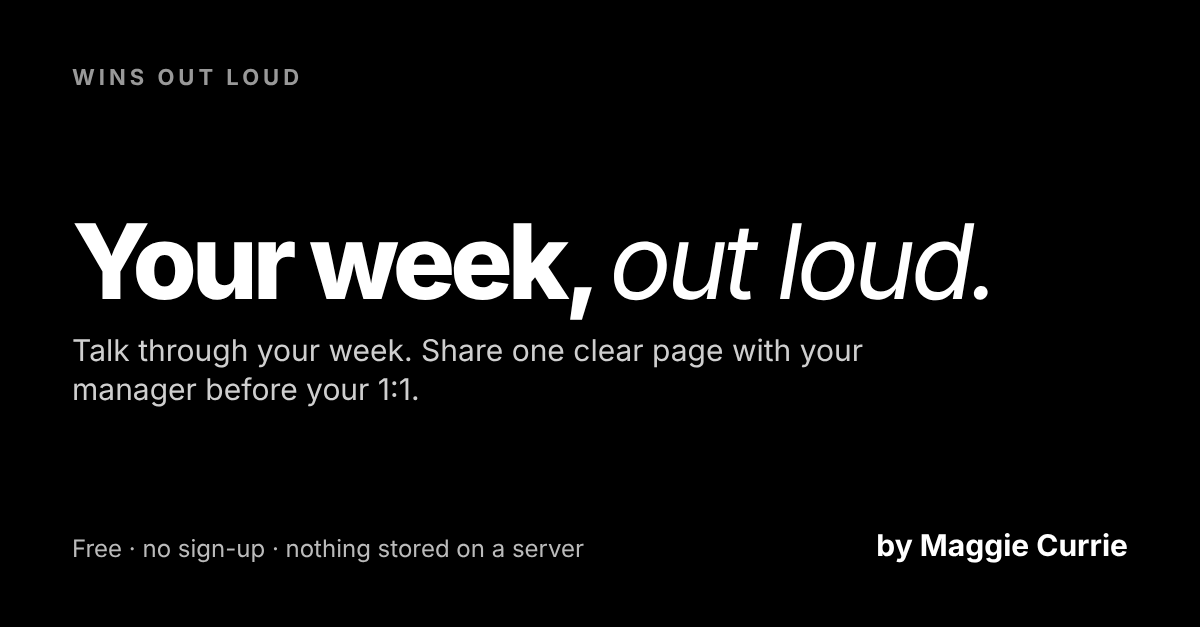
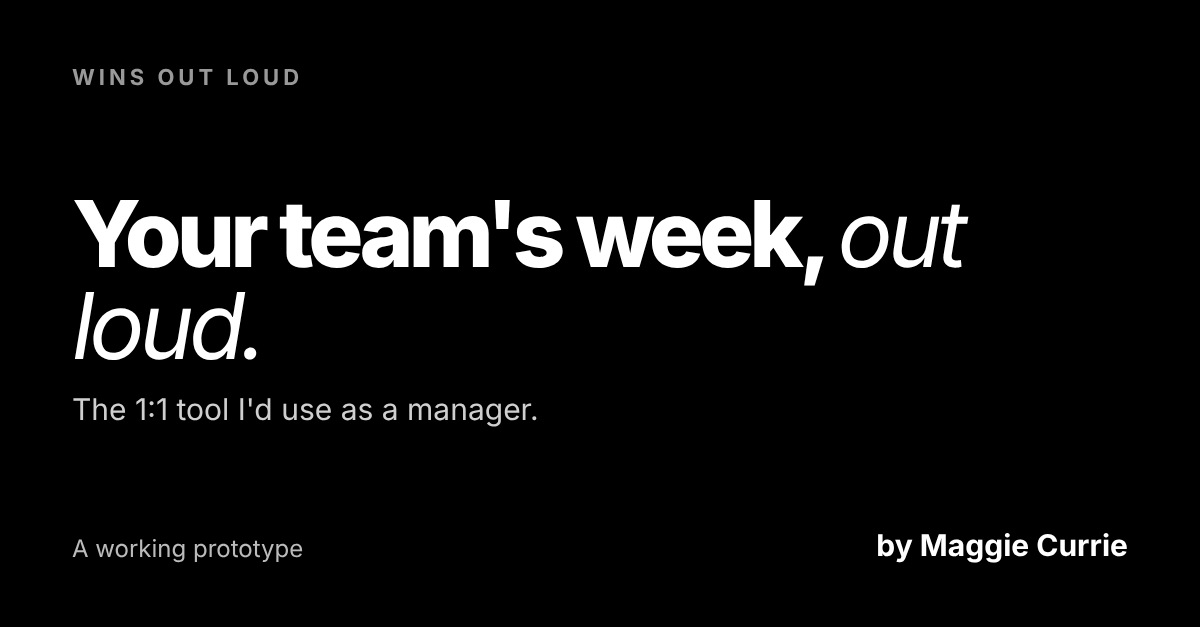
Reposition as the 1:1 tool I'd use as a manager
Rewrites the landing page from a manager's point of view: 'Your team's
week, out loud', fixes framed around better 1:1s, better reviews and a
team that feels seen, manager benefits listed first, and the prototype
introduced as 'try it as your team would, then see your view'. Updates
the link preview image and descriptions to match.

Claude-Session: https://claude.ai/code/session_01ASASKN3PPq9E4hFb3va1Pi

Changed region(s): [[0.0617, 0.303, 0.8325, 0.5758], [0.0617, 0.8485, 0.4933, 0.9091], [0.0617, 0.6061, 0.4625, 0.697]]

diff --git a/index.html b/index.html
@@ -3,10 +3,10 @@
 <head>
 <meta charset="utf-8">
 <meta name="viewport" content="width=device-width, initial-scale=1">
-<title>Wins Out Loud · A weekly hub for you and your manager</title>
-<meta name="description" content="Talk through your week in two minutes. Wins, what's in progress and where you're stuck become one clear page for your weekly 1:1s and quarterly check-ins. A prototype by Maggie Currie, open for anyone to use and adapt.">
+<title>Wins Out Loud · The 1:1 tool I'd use as a manager</title>
+<meta name="description" content="The 1:1 tool I'd use as a manager. Your team talks through their week in two minutes, and you get one clear page of wins, work in progress, and blockers. A prototype by Maggie Currie.">
 <meta property="og:title" content="Wins Out Loud">
-<meta property="og:description" content="Talk through your week in two minutes. Share one clear page with your manager before your 1:1.">
+<meta property="og:description" content="The 1:1 tool I'd use as a manager. Your team talks through their week; you get one clear page of wins, work in progress, and blockers.">
 <meta property="og:type" content="website">
 <meta property="og:url" content="https://maggiecurrie.github.io/wins-out-loud/">
 <meta property="og:image" content="https://maggiecurrie.github.io/wins-out-loud/og-image.png">
@@ -270,23 +270,23 @@
       <a class="brand" href="#top">Wins <em>Out Loud</em></a>
       <nav aria-label="Main">
         <a href="#solved">How it helps</a>
-        <a href="#both-sides">For managers</a>
+        <a href="#both-sides">For your team</a>
         <a href="#try">Use it</a>
       </nav>
     </div>
     <div class="hero-grid">
       <div>
-        <div class="eyebrow">A weekly hub for you and your manager</div>
-        <h1>Your week, <em>out loud.</em></h1>
-        <p class="lead">Before your 1:1, just <strong>talk through your week</strong>. Your wins, what's in progress, and where you're stuck become <strong>one clear page</strong> you and your manager work from together, every week and every quarter.</p>
+        <div class="eyebrow">The 1:1 tool I'd use as a manager</div>
+        <h1>Your team's week, <em>out loud.</em></h1>
+        <p class="lead">Before each 1:1, your people <strong>talk through their week</strong> in two minutes. You get <strong>one clear page</strong>: their wins, what's in progress, and where they're stuck, so you can spend the time coaching, unblocking, and celebrating.</p>
         <div class="btns">
-          <a class="btn solid-light" href="#try">Talk through your week →</a>
+          <a class="btn solid-light" href="#try">See it in action →</a>
           <a class="btn light" href="#solved">See how it helps</a>
         </div>
         <p class="hero-note">A working prototype by Maggie Currie. Open for anyone to use and adapt, and nothing is stored on a server.</p>
       </div>
-      <div class="preview" aria-label="Example weekly update">
-        <div class="p-head"><span>Weekly update</span><span>Week of Nov 16</span></div>
+      <div class="preview" aria-label="Example 1:1 page from a team member">
+        <div class="p-head"><span>Priya's week</span><span>1:1 · Thu</span></div>
         <div class="topline">Shipped the Q4 campaign on time, and the launch video is our best performer this quarter.</div>
         <h4>Wins</h4>
         <ul>
@@ -308,15 +308,15 @@
 <section id="solved">
   <div class="wrap">
     <div class="eyebrow">Here's how it fixes each one</div>
-    <h2>From forgotten <em>to front and centre.</em></h2>
+    <h2>Better 1:1s. <em>Better reviews. A team that feels seen.</em></h2>
 
     <div class="solved-row">
       <div>
         <div class="num">01 · Every week</div>
-        <div class="was">Every 1:1 starts from memory</div>
-        <h3>Walk in <em>ready.</em></h3>
-        <p>Before your 1:1, talk through your week for two minutes. Your wins, what's in progress, and where you're stuck become a page you share with your manager, so the meeting goes straight to what matters.</p>
-        <a class="btn small" href="#try" data-open="talk">Try talking it out →</a>
+        <div class="was">"So… what did you work on this week?"</div>
+        <h3>Your team walks in <em>ready.</em></h3>
+        <p>Before your 1:1, each person talks through their week for two minutes and shares one page with you. No more recaps from memory. You skip straight to blockers, growth, and the decisions that need you.</p>
+        <a class="btn small" href="#try" data-open="talk">See how they prep →</a>
       </div>
       <div class="mock">
         <div class="m-head"><span>🎙 What you said</span><span>2 min</span></div>
@@ -348,9 +348,9 @@
       </div>
       <div>
         <div class="num">02 · Review season</div>
-        <div class="was">Review season is an archaeology dig</div>
+        <div class="was">Review season is an archaeology dig, for both of you</div>
         <h3>Six months of work, <em>compiled in seconds.</em></h3>
-        <p>"What have you achieved in the past six months?" is no longer a scary question. It pulls together every win you've logged and every 1:1 you've shared, grouped by type, with results, proof, and your proudest moments. Your self-review starts from receipts, not a blank page.</p>
+        <p>"What have you achieved in the past six months?" stops being a scary question. Every win and every 1:1 is already there, grouped by type, with results and proof. Your team writes self-reviews from receipts, and you write reviews, promotion cases, and references with specific, dated examples.</p>
         <a class="btn small" href="#try" data-open="review">Try the 6-month review →</a>
       </div>
     </div>
@@ -358,9 +358,9 @@
     <div class="solved-row">
       <div>
         <div class="num">03 · All year</div>
-        <div class="was">Great work goes unseen</div>
-        <h3>Make your work <em>visible.</em></h3>
-        <p>Your manager sees your wins every week, not just at review time. And when you want to go further, one click turns your best wins into resume bullets, a promotion case, or a LinkedIn post, with the story behind them.</p>
+        <div class="was">Your quietest people's best work goes unseen</div>
+        <h3>See their work. <em>Help them show it.</em></h3>
+        <p>You see every win as it happens, including the quiet ones: the fire someone put out, the teammate they helped. And you can help each person turn their best work into resume bullets, a promotion case, or a post, with the story behind it.</p>
         <a class="btn small" href="#try" data-open="visible">See what it creates →</a>
       </div>
       <div class="mock">
@@ -380,25 +380,25 @@
 <section class="story" id="both-sides">
   <div class="wrap">
     <div class="eyebrow">Built for both sides of the table</div>
-    <h2>Your manager gets visibility. <em>You get a record of your work.</em></h2>
+    <h2>You get visibility. <em>Your team gets a record of their work.</em></h2>
     <div class="problems two" style="background:transparent">
       <div>
-        <h3>For you</h3>
-        <p style="margin-bottom:10px">A running database of everything you've done, with the results, the proof, and the stories behind it.</p>
-        <ul class="muted" style="margin:0;padding-left:18px">
-          <li>Weekly 1:1s that take minutes to prep</li>
-          <li>Quarterly check-ins with receipts, not guesswork</li>
-          <li>Self-reviews, promotion cases, and resume bullets, ready when you need them</li>
-        </ul>
-      </div>
-      <div>
-        <h3>For your manager</h3>
-        <p style="margin-bottom:10px">A clear view of what's happening, without chasing anyone for updates.</p>
+        <h3>For you, the manager</h3>
+        <p style="margin-bottom:10px">A clear view of what your team is doing, without chasing anyone for updates.</p>
         <ul class="muted" style="margin:0;padding-left:18px">
           <li>Wins, work in progress, and blockers at a glance</li>
           <li>Blockers raised early, while they're still easy to fix</li>
           <li>1:1s spent on blockers and growth, not recaps</li>
           <li>Specific, dated examples for feedback, reviews, and references</li>
+        </ul>
+      </div>
+      <div>
+        <h3>For your team</h3>
+        <p style="margin-bottom:10px">A running record of everything they've done, with the results, the proof, and the stories behind it.</p>
+        <ul class="muted" style="margin:0;padding-left:18px">
+          <li>1:1s that take two minutes to prep</li>
+          <li>Quarterly check-ins with receipts, not guesswork</li>
+          <li>Self-reviews, promotion cases, and resume bullets, ready when you need them</li>
         </ul>
       </div>
     </div>
@@ -408,8 +408,8 @@
 <section class="app" id="try">
   <div class="wrap">
     <div class="eyebrow">The prototype</div>
-    <h2>Your weekly hub. <em>Take it for a spin.</em></h2>
-    <p class="lead"><strong>Talk it out → check the sort → share your 1:1 page → pull your review when you need it.</strong><br>Everything saves in your browser on this device. New here? <a href="#" id="load-example" style="color:#fff">Load an example week</a> to see how it works.</p>
+    <h2>Try it as your team would. <em>Then see your view.</em></h2>
+    <p class="lead"><strong>Talk it out → check the sort → share the 1:1 page with your manager → pull a review when you need it.</strong><br>Hit <b>Share with my manager</b> to see the page you'd get before a 1:1. Everything saves in your browser on this device. New here? <a href="#" id="load-example" style="color:#fff">Load an example week</a> to see how it works.</p>
 
     <div class="app-shell">
       <div class="me-row">
@@ -560,7 +560,7 @@
 
 <section id="kinds-of-wins">
   <div class="wrap">
-    <div class="eyebrow">Not sure what counts?</div>
+    <div class="eyebrow">Share this with your team</div>
     <h2>Wins come in <em>five shapes.</em></h2>
     <div class="kinds-grid">
       <div><h3>Shipped</h3><p>Something launched, published, delivered, or finished.</p></div>

diff --git a/README.md b/README.md
@@ -1,6 +1,6 @@
 # Wins Out Loud
 
-**Your week, out loud.** A weekly hub for you and your manager.
+**Your team's week, out loud.** The 1:1 tool I'd use as a manager.
 
 🌐 **[Open the prototype](https://maggiecurrie.github.io/wins-out-loud/)**
 
